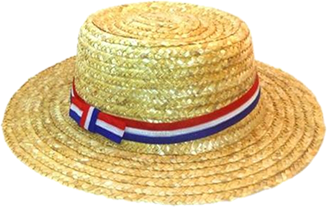
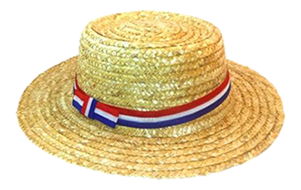
test

diff --git a/pfpimgen/pfpimgen.py b/pfpimgen/pfpimgen.py
@@ -2090,21 +2090,21 @@ class PfpImgen(commands.Cog):
         return _file
     
     def gen_chupalla(self, ctx, member_avatar):
-        member_avatar = self.bytes_to_image(member_avatar, 360)
+        member_avatar = self.bytes_to_image(member_avatar, 301)
 
         # member_avatar = member_avatar.rotate(330, Image.NEAREST, expand=1)
         # base canvas
-        im = Image.new("RGBA", (360, 360), None)
-        mygfmask = Image.open(f"{bundled_data_path(self)}/chupalla/chupalla_mask.png", mode="r").convert(
+        im = Image.new("RGBA", (301, 301), None)
+        chupallamask = Image.open(f"{bundled_data_path(self)}/chupalla/chupalla_mask.png", mode="r").convert(
             "RGBA"
         )
 
         # member_avatar.rotate(90, resample=0, expand=0, center=None, translate=None, fillcolor=None)
         # im.rotate(120, resample=0, expand=0, center=None, translate=None, fillcolor=None)
 
-        im.paste(member_avatar, (39, 30), member_avatar)
-        im.paste(mygfmask, (0, 0), mygfmask)
-        mygfmask.close()
+        im.paste(member_avatar, (50, 30), member_avatar)
+        im.paste(chupallamask, (0, 0), chupallamask)
+        chupallamask.close()
         member_avatar.close()
 
         fp = BytesIO()
